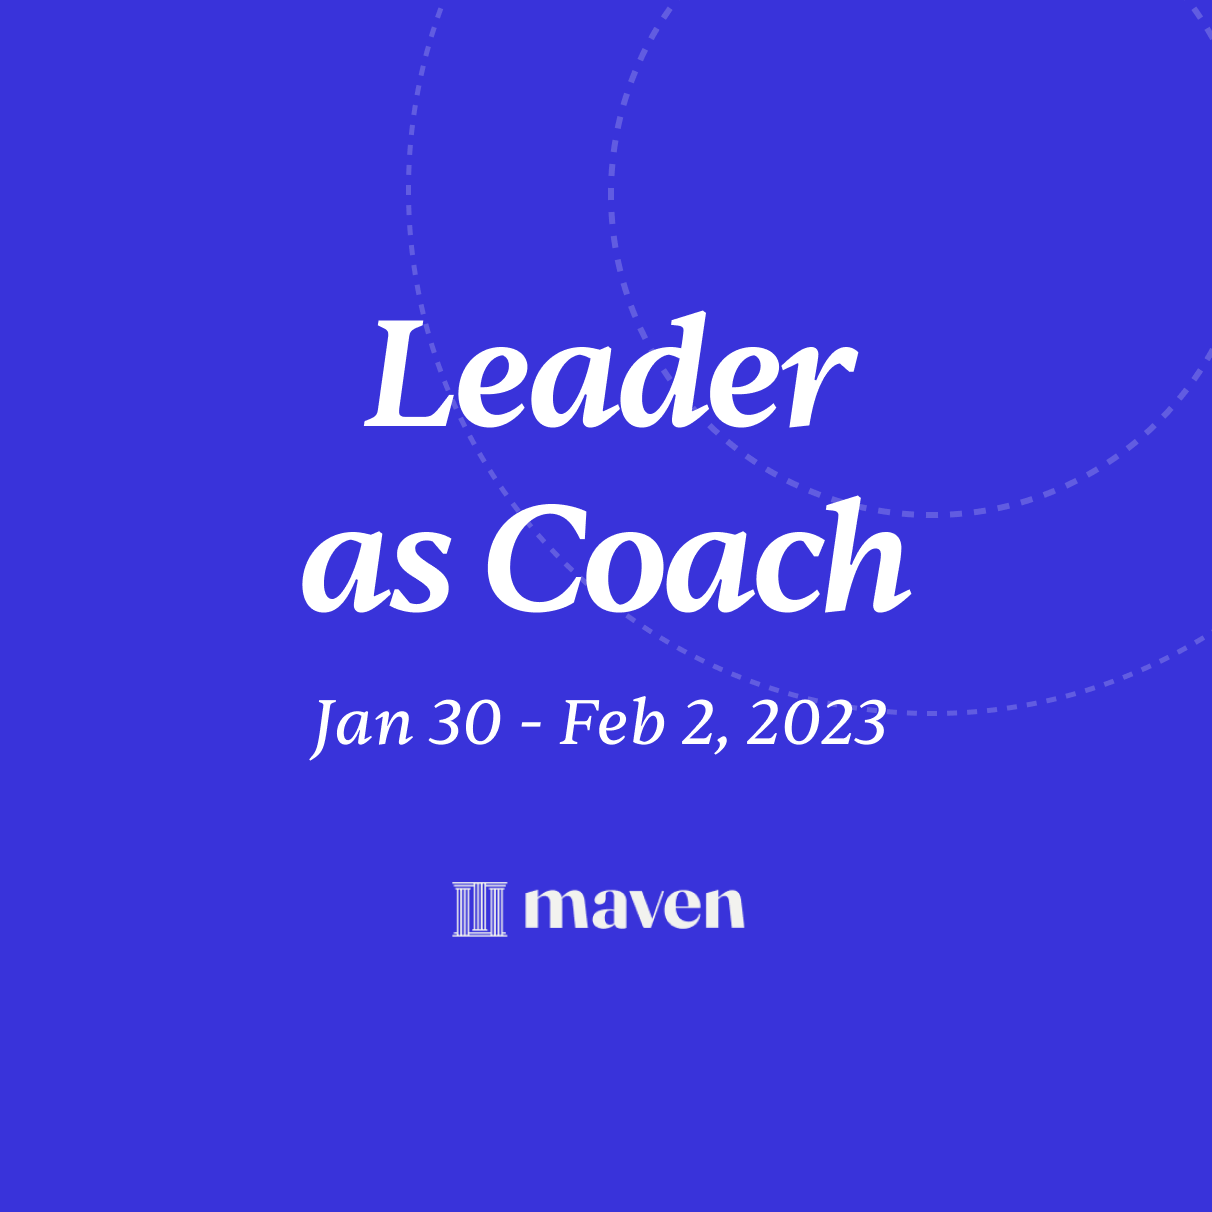
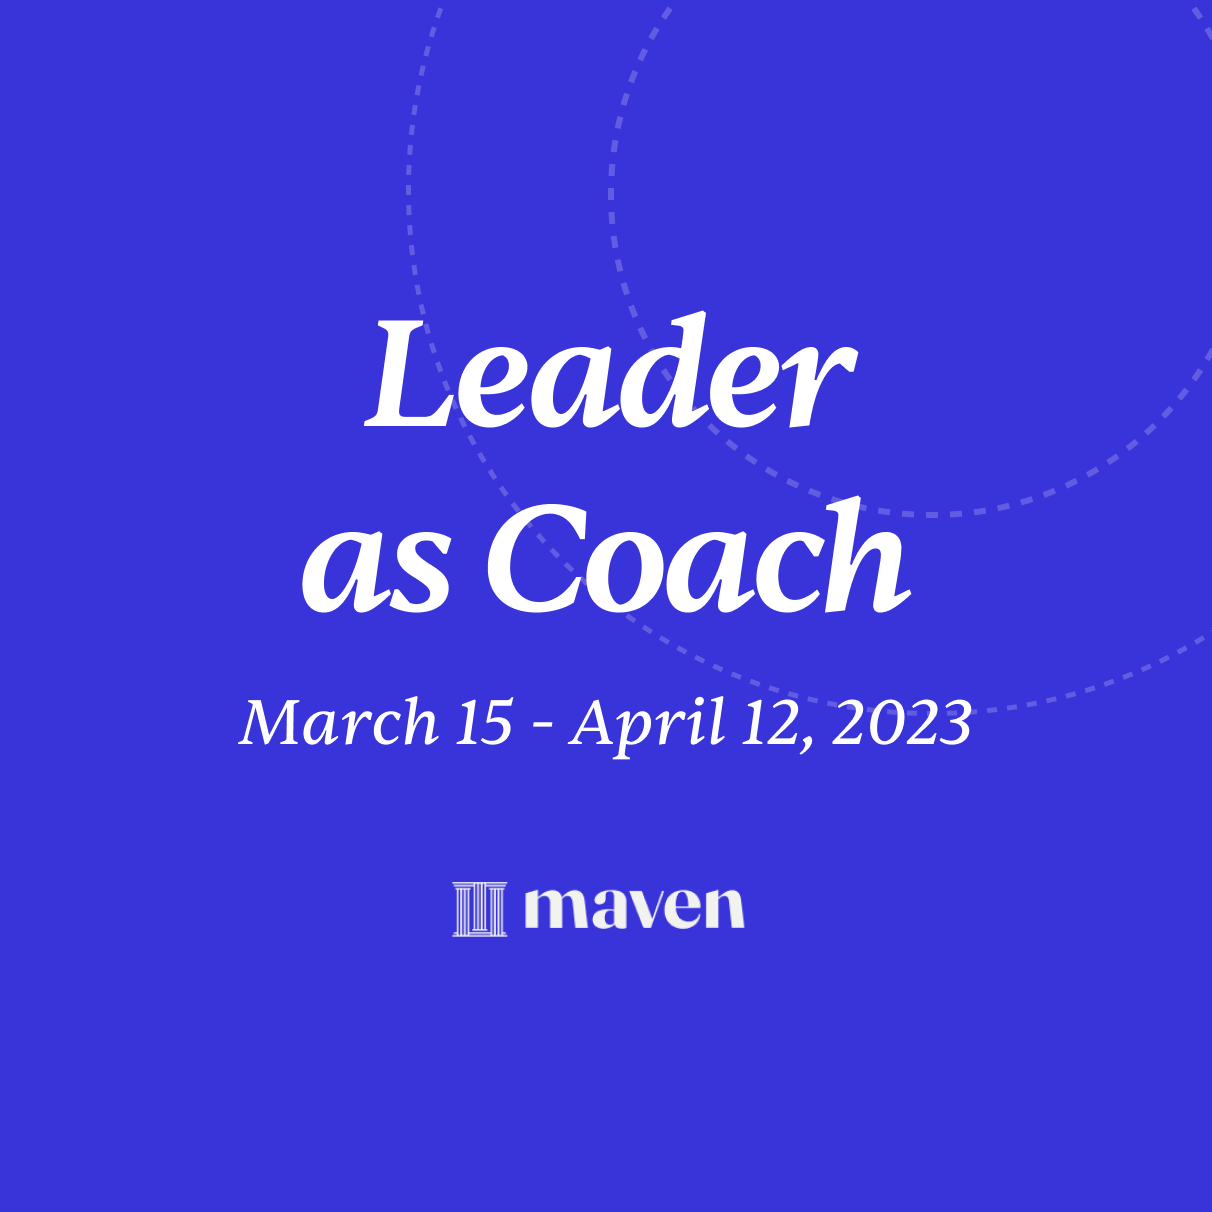
updating leader as coach dates

Changed region(s): [[0.4579, 0.58, 0.8243, 0.6411], [0.1832, 0.58, 0.4274, 0.6411]]

diff --git a/build/index.html b/build/index.html
@@ -94,7 +94,7 @@
   <div class="col-2">
     <h2>Leader as Coach: A Cohort-based Course</h2>
     <h3>Learn and apply coaching skills to empower your team and maximize results.</h3>
-    <p>January 30th - February 2nd, 2023. <a href="https://maven.com/andrea-mignolo/leader-as-coach">Leader as Coach</a> is a weeklong intensive that teaches leaders essential coaching skills that can unlock potential, enhance well-being, and accelerate team performance. </p>
+    <p>March 15th - April 12th, 2023. <a href="https://maven.com/andrea-mignolo/leader-as-coach">Leader as Coach</a> is a 5 week cohort-based course that teaches leaders essential coaching skills that can unlock potential, enhance well-being, and accelerate team performance. </p>
 
     <p><a href="https://maven.com/andrea-mignolo/leader-as-coach">Save your spot!</a></p>
   </div>
